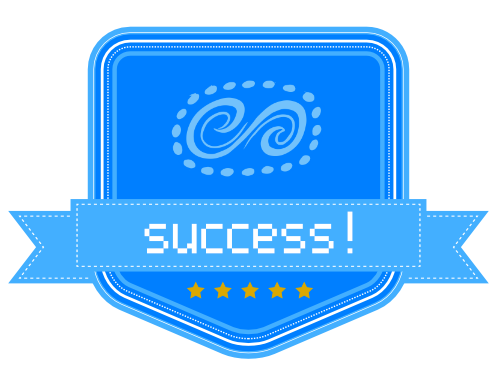
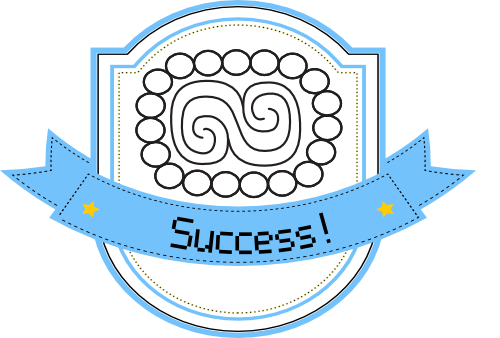
badges and final instructions

diff --git a/app/game/pyramid/fr/2/785.md b/app/game/pyramid/fr/2/785.md
@@ -4,4 +4,16 @@ backdrop: images/2-cenote.png
 
 # Revenez en septembre!
 
-Revenez en septembre et montez au sommet de la pyramide, apprenez son nom, la déesse à qui elle est dédiée, et plus encore!
+Félicitations, vous avez découvert la deuxième des trois parties du nom du temple et découvert de nouveaux glyphes. Vous avez également aidé à restaurer le temple. Bien joué!
+
+Revenez en septembre et montez au sommet de la pyramide. Apprenez son nom, la déesse à laquelle elle est dédiée, et plus!
+
+<hr class = "m-5" />
+
+Assurez-vous de [login](../login) pour enregistrer votre progression et rester à l'écoute pour <a href = "https://azure.microsoft.com/resources/join-the-azure-developer-community?WT.mc_id=mayamystery-newsletter-jelooper" target="_blank">continuer le mois prochain</a>!
+
+<hr class="m-5"/>
+
+![Second badge](/images/badge2.png)
+
+[Tweet!](https://twitter.com/intent/tweet?url=https%3A%2F%2Fmicrosoft.com/AzureMayaMystery%2F&text=I%20just%20entered%20the%20Azure%20Maya%20Mystery%20pyramid.%20Look%20forward%20to%20next%20month%20when%20I%20will%20get%20to%20explore%20more!&hashtags=AzureMayaMystery)

diff --git a/app/game/pyramid/es/2/785.md b/app/game/pyramid/es/2/785.md
@@ -4,4 +4,19 @@ backdrop: images/2-cenote.png
 
 # ¡Vuelve en septiembre!
 
-¡Regrese en septiembre y ascienda a la cima de la pirámide, conozca su nombre, la diosa a quien está dedicada y más!
+Felicitaciones, descubriste la segunda de las tres partes del nombre del templo y aprendiste sobre nuevos glifos. También has ayudado a restaurar el templo. ¡Bien hecho!
+
+Regresa en septiembre y asciende a la cima de la pirámide. ¡Aprende su nombre, la diosa a quien está dedicado, y más!
+
+<hr class="m-5"/>
+
+Asegúrese de [Iniciar sesión](../login) para guardar su progreso y estar atento a <a
+          href="https://azure.microsoft.com/resources/join-the-azure-developer-community?WT.mc_id=mayamystery-newsletter-jelooper"
+          target="blank"
+        >continuar el próximo mes</a>!
+
+<hr class="m-5"/>
+
+![Second badge](/images/badge2.png)
+
+[Tweet!](https://twitter.com/intent/tweet?url=https%3A%2F%2Fmicrosoft.com/AzureMayaMystery%2F&text=I%20just%20entered%20the%20Azure%20Maya%20Mystery%20pyramid.%20Look%20forward%20to%20next%20month%20when%20I%20will%20get%20to%20explore%20more!&hashtags=AzureMayaMystery)

diff --git a/app/game/pyramid/en/2/785.md b/app/game/pyramid/en/2/785.md
@@ -4,4 +4,19 @@ backdrop: images/2-cenote.png
 
 # Come back in September!
 
-Come back in September and ascend to the top of the pyramid, learning its name, the goddess to whom it is dedicated, and more!
+Congratulations, you have discovered the second of three parts of the temple's name, and learned about new glyphs. You have also helped restore the temple. Well done!
+
+Come back in September and ascend to the top of the pyramid. Learn its name, the goddess to whom it is dedicated, and more!
+
+<hr class="m-5"/>
+
+Make sure to [Login](../login) to save your progress and stay tuned to <a
+          href="https://azure.microsoft.com/resources/join-the-azure-developer-community?WT.mc_id=mayamystery-newsletter-jelooper"
+          target="blank"
+        >continue next month</a>!
+
+<hr class="m-5"/>
+
+![Second badge](/images/badge2.png)
+
+[Tweet!](https://twitter.com/intent/tweet?url=https%3A%2F%2Fmicrosoft.com/AzureMayaMystery%2F&text=I%20just%20entered%20the%20Azure%20Maya%20Mystery%20pyramid.%20Look%20forward%20to%20next%20month%20when%20I%20will%20get%20to%20explore%20more!&hashtags=AzureMayaMystery)

diff --git a/app/game/pyramid/pt/2/785.md b/app/game/pyramid/pt/2/785.md
@@ -4,4 +4,16 @@ backdrop: images/2-cenote.png
 
 # Volte em setembro!
 
-Volte em setembro e suba ao topo da pirâmide, aprendendo seu nome, a deusa a quem se dedica e muito mais!
+Parabéns, você descobriu a segunda das três partes do nome do templo e aprendeu sobre novos glifos. Você também ajudou a restaurar o templo. Bem feito!
+
+Volte em setembro e suba ao topo da pirâmide. Aprenda seu nome, a deusa a quem se dedica e muito mais!
+
+<hr class = "m-5" />
+
+Certifique-se de [login](../login) para salvar seu progresso e fique atento a <a href = "https://azure.microsoft.com/resources/join-the-azure-developer-community?WT.mc_id=mayamystery-newsletter-jelooper" target="_blank">continue no próximo mês</a>!
+
+<hr class="m-5"/>
+
+![Second badge](/images/badge2.png)
+
+[Tweet!](https://twitter.com/intent/tweet?url=https%3A%2F%2Fmicrosoft.com/AzureMayaMystery%2F&text=I%20just%20entered%20the%20Azure%20Maya%20Mystery%20pyramid.%20Look%20forward%20to%20next%20month%20when%20I%20will%20get%20to%20explore%20more!&hashtags=AzureMayaMystery)
